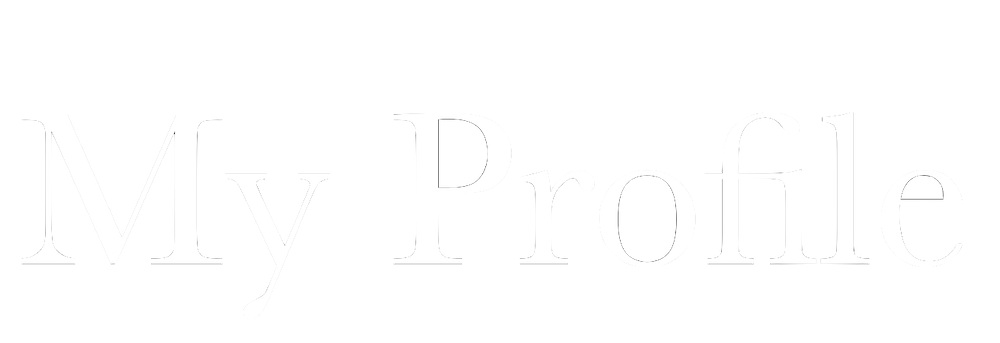
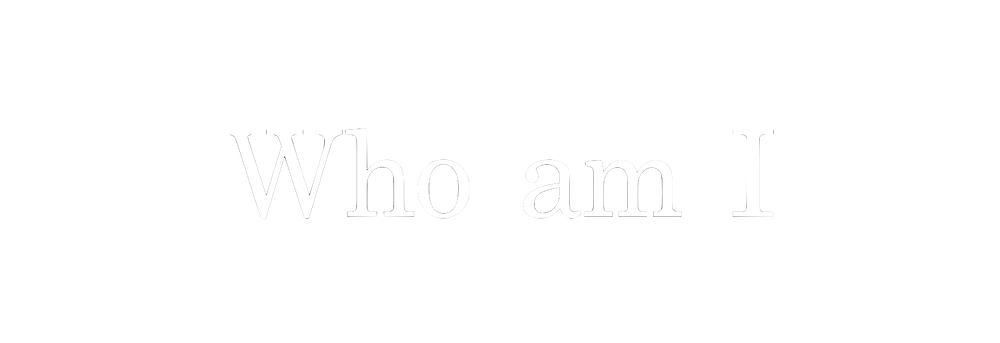
Who am Iに変更

diff --git a/public/index.html b/public/index.html
@@ -3,7 +3,7 @@
 <head>
     <meta charset="UTF-8">
     <meta name="viewport" content="width=device-width, initial-scale=1.0">
-    <title>My Profile</title>
+    <title>Who am I</title>
     <meta name="description" content="エンジニアとしての自己紹介サイトです。">
     <meta name="keyword" content="Gento 自己紹介">
     <meta property="og:url" content="http://lnoueryo98.sakura.ne.jp/lp/" />
@@ -105,7 +105,7 @@
                                                 <div class="rel z-1" v-show="obj.aboutMe1">
                                                     <div class="content-container1">
                                                         <div class="sec_title mt-4">略歴</div>
-                                                        <p class="para">高校卒業 → 専門学校中退 → ゲストハウスで住み込みバイト → インド政府奨学金に挑戦するも不採用で留学失敗 → フィリピンに半年留学し英語を学ぶ → 個人事業主としてでWeb制作 → ニュージーランドで１年ワーホリ → 東京でプログラマー。</p>
+                                                        <p class="para">高校卒業 → 専門学校中退 → 立ち上げ1年目のゲストハウスで住み込みバイト → インド政府奨学金に挑戦するも不採用で留学失敗 → フィリピンに半年留学し英語を学ぶ → 個人事業主としてでWeb制作 → ニュージーランドで１年ワーホリ → 東京でプログラマー。</p>
                                                         <p class="para">Web制作をメインに活動していたが、Web、モバイル問わずアプリ開発に興味を持ち本格的に学習を始める。</p>
                                                         <p class="para">現在業務ではFlutterを使ったハイブリッドアプリ開発に携わっている。</p>
                                                     </div>
@@ -117,13 +117,13 @@
                                             <transition name="bottom">
                                                 <div class="content-container2 mb-4 pc-only rel z-1" v-show="obj.aboutMe2" ref="aboutMe2">
                                                     <div class="sec_title">自己紹介</div>
-                                                    <p class="para">初めまして、玄登（ゲント）と申します。都内のシステム開発会社にVue.js、Laravelを使用し、ハイブリッドアプリ開発に従事。その後、設立1年目のベンチャー企業に会社史上２人目のエンジニアとして参画。主にFlutterを使用しハイブリッドアプリ開発に従事しております。</p>
-                                                    <p class="para">趣味でFlutterとIonicを用いたモバイルアプリを開発しております。お時間あれば運営中のアプリをご覧頂ければと思います。</p>
+                                                    <p class="para">初めまして、玄登（ゲント）と申します。都内IT企業にてVue.js、Laravelを使用し、ハイブリッドアプリ開発に従事。その後、設立1年目のHRベンチャーに会社史上3人目のエンジニアとして参画。主にFlutterを使用しハイブリッドアプリ開発に従事。</p>
+                                                    <p class="para">趣味でFlutterとIonicを用いたモバイルアプリを開発しています。お時間あれば運営中のアプリをご覧頂ければと思います。</p>
                                                 </div>
                                             </transition>
                                             <div class="content-container2 mb-4 sp-only rel z-1">
                                                 <div class="sec_title">自己紹介</div>
-                                                <p class="para"><img id="dog" src="img/10.jpg" alt="">初めまして、玄登（ゲント）と申します。都内のシステム開発会社にVue.js、Laravelを使用し、ハイブリッドアプリ開発に従事。その後、設立1年目のベンチャー企業に会社史上２人目のエンジニアとして参画。主にFlutterを使用しハイブリッドアプリ開発に従事しております。趣味でFlutterとIonicを用いたモバイルアプリを開発しております。お時間あれば運営中のアプリをご覧頂ければと思います。</p>
+                                                <p class="para"><img id="dog" src="img/10.jpg" alt="">初めまして、玄登（ゲント）と申します。都内のシステム開発会社にVue.js、Laravelを使用し、ハイブリッドアプリ開発に従事。その後、設立1年目のHRベンチャーに会社史上3人目のエンジニアとして参画。主にFlutterを使用しハイブリッドアプリ開発に従事。趣味でFlutterとIonicを用いたモバイルアプリを開発しています。お時間あれば運営中のアプリをご覧頂ければと思います。</p>
                                             </div>
                                             <p class="tra link"><a target="_blank" href="https://gengendiary.world/">BACKGROUND DETAIL→</a></p>
                                         </div>
@@ -173,7 +173,7 @@
                                                                 <div class="sec_title mt-40">バックエンド</div>
                                                                 <p class="para">2016年からPHPとMySQLを学習。</p>
                                                                 <p class="para">PHPとMySQLでGoogle Mapに動画を埋め込むWebサービスを開発。</p>
-                                                                <p class="para">個人事業主としてWordPress関連の開発を多数経験。</p>
+                                                                <p class="para">個人事業主としてWordPress関連の開発やGoogle Apps Scriptを多数経験。</p>
                                                                 <p class="para">その後、業務でLaravelを経験。</p>
                                                             </div>
                                                         </div>
@@ -189,8 +189,8 @@
                                                                 <div class="sec_title mt-40">モバイルアプリ</div>
                                                                 <p class="para">2019年にIonicフレームワークでモバイルアプリを独学で開発しリリース。</p>
                                                                 <p class="para">開発だけではなく、アイコンやストア用の画像作成、ビルド証明書の発行など、全てを一人で行う。</p>
-                                                                <p class="para">現在、業務ではWeb技術を利用したハイブリッドアプリ開発に従事しており、Webアプリケーションだけではなくネイティブアプリの知見も多く持っている。</p>
-                                                                <p class="para">現在の業務ではFlutterを使用しており、日々学習に励んでいる。</p>
+                                                                <p class="para">業務でもWeb技術を利用したハイブリッドアプリ開発を経験し、Webアプリケーションだけではなくネイティブアプリの知見も多く持っている。</p>
+                                                                <p class="para">現在の業務ではFlutterを使用しており、日々学習中。</p>
                                                             </div>
                                                         </div>
                                                     </div>
@@ -198,7 +198,7 @@
                                                 <div class="content-container2 mb-4 rel z-1" v-show="obj.skill4">
                                                     <div class="sec_title mt-4">プライベート</div>
                                                     <p class="para">インドで1ヶ月のインターンシップ、フィリピンで半年間の留学、ニュージーランドで1年ワーホリの経験があり、日常の英会話は話すことができます。</p>
-                                                    <p class="para">また、無人島キャンプや野宿、ヒッチハイクの旅を経験した事で、どこでも生き延びれる生命力を持っています。</p>
+                                                    <p class="para">また、無人島キャンプや野宿、ヒッチハイクの旅を経験した事で、どこでも生き延びれる（であろう）生命力を持っています。</p>
                                                 </div>
                                                 <p class="tra link"><a target="_blank" href="https://docs.google.com/spreadsheets/d/1cuuG6mNW-iJhwmnOgqFz6WqFVCZiNxSoopyVQbCtLUo/edit?usp=sharing">CURRICULUM VITAE→</a></p>
                                             </div>
@@ -229,7 +229,7 @@
                                                             <div class="title">My App</div>
                                                         </div>
                                                         <div class="sec_title pc-only mt-4">性活カレンダー</div>
-                                                        <p class="para">IonicフレームワークとAngular（Typescript）、Firebaseを使って性活を記録するサービスを作成しました。アプリ内に窓口を用意し、ユーザーからの要望やバグ報告を受けて改修とアップデートを繰り返し、現在も運営中。</p>
+                                                        <p class="para">Ionic FrameworkとAngular（Typescript）、Firebaseを使って性活を記録するサービスを作成しました。アプリ内に窓口を用意し、ユーザーからの要望やバグ報告を受けて改修とアップデートを繰り返し、現在も運営中。</p>
                                                         <p class="para">約3000人ほどのユーザーが利用中で、月に数百円の収益あり。</p>
                                                     </div>
                                                     <div id="special" class="message w-50 text-center tra px-4">
